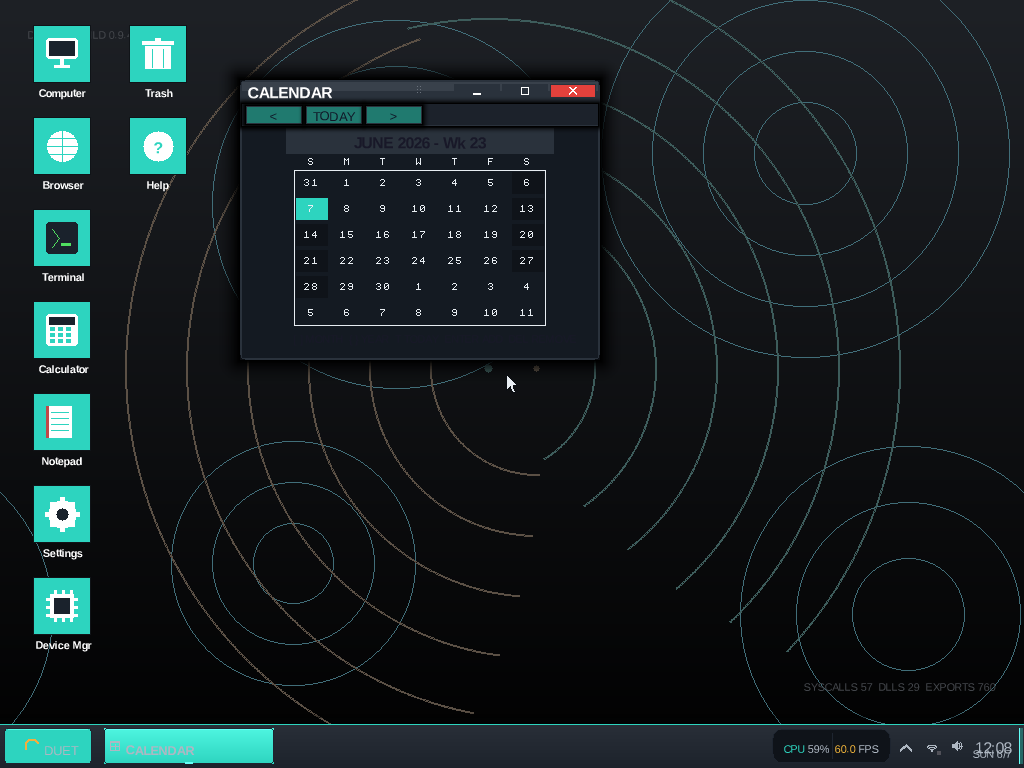
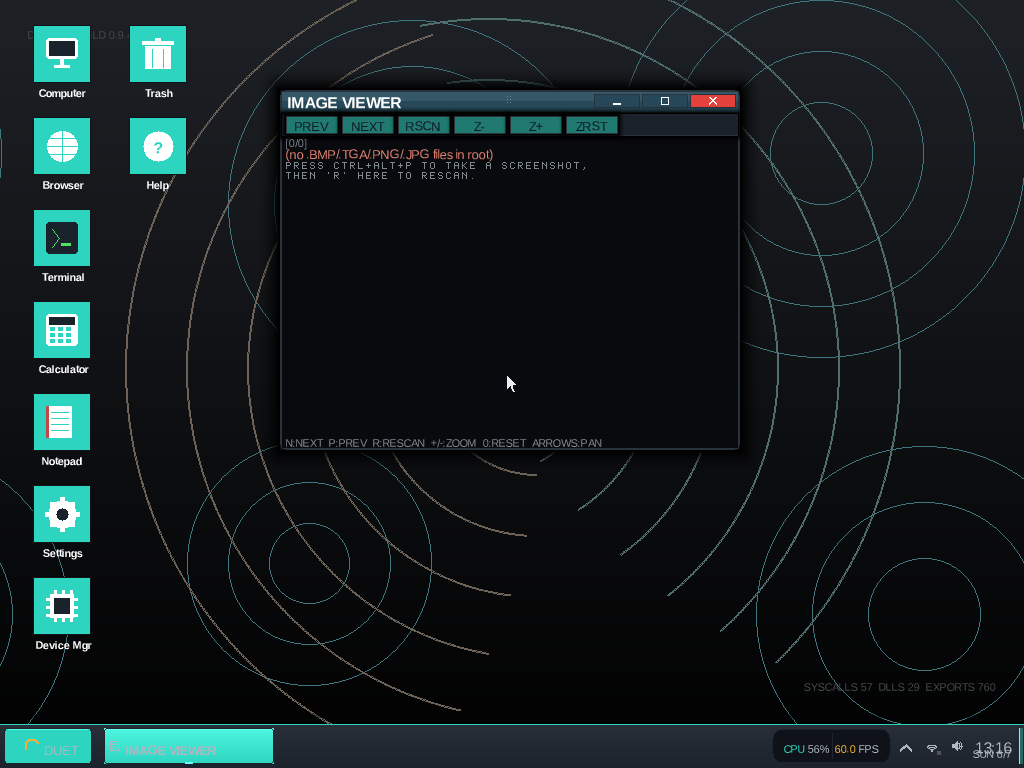
fix(input): gate VBox auto-repeat suppressor so fast typing/menu-nav doesn't drop keys (F-002, F-003)
The kbd-reader's software auto-repeat suppressor (KbdReaderTask in
kernel/core/boot_tasks.cpp) ran on EVERY host. Its discriminator — eat a
same-key press that arrives within ~100ms of that key's own release —
cannot distinguish VirtualBox host-driven auto-repeat from a fast
legitimate same-key burst (automation sendkey, or a fast typist; QEMU
sendkey delivers make+break instantaneously so two back-to-back commands
look like a sub-ms re-press). So it dropped genuine keystrokes on every
non-VBox host: typing 'peek' fast came out 'PEK', and a 6-press
start-menu nav landed 3 rows short and opened the WRONG app (fired CLOCK
instead of IMAGE VIEWER).

Root cause was NOT the compositor lock / pending redraw (the prior
hypothesis): the 64-byte scancode ring never overflowed for a 6-key
burst, and a DEBUG kbd-ev trace showed the suppressor — not the ring —
discarding the presses. The suppressor is only ever needed under
VirtualBox (which ACKs the 0xF3 typematic command but ignores it);
QEMU/KVM/VMware/real-HW genuinely disable host auto-repeat via 0xF3, so
there every press is real.

Fix: gate the whole suppression block on
HypervisorInfoGet().kind == VirtualBox (vbox_auto_repeat). Verified at
0.06s/key: 6 Down presses all register, IMAGE VIEWER opens; firewall and
dbg (SYSTEM submenu) also open correctly.

F-003 was a *symptom* of F-002, not a separate nav-table bug: the
'SYSTEM off-by-one' landing was a dropped Down key. Root menu order is
[…]

diff --git a/tools/test/drivers/f002-fastnav-repro.py b/tools/test/drivers/f002-fastnav-repro.py
@@ -1,0 +1,75 @@
+#!/usr/bin/env python3
+"""f002-fastnav-repro.py - reproduce F-002 keyboard input-drop at a fast
+key rate. Opens the Start menu and navigates to a target app at
+F002_KEY_DELAY seconds per key (default 0.06, the rate that USED to drop
+keys), screendumping each state. Compare the resulting app to the
+expected one: if keys were dropped the highlight lands SHORT and the
+wrong app opens.
+
+ENV:
+  F002_KEY_DELAY  seconds between key presses (default 0.06)
+  F002_TARGET     app id from LAUNCH_NAV (default firewall, a SYSTEM app)
+  EXPLORE_SHOT_DIR  dir for screendumps (default /tmp)
+
+Invoked: f002-fastnav-repro.py <MON_SOCK> <SERIAL_LOG>.
+"""
+import os, socket, sys, time
+
+mon_p, slog = sys.argv[1], sys.argv[2]
+SHOT_DIR = os.environ.get("EXPLORE_SHOT_DIR", "/tmp")
+DELAY = float(os.environ.get("F002_KEY_DELAY", "0.06"))
+TARGET = os.environ.get("F002_TARGET", "firewall")
+
+# root order (activatable): 0 APPS 1 UTILITIES 2 SYSTEM 3 SCREENSHOT 4 POWER
+# but see F-003: a planted /APPS shortcut can make USER APPS activatable,
+# shifting SYSTEM to root index 3. The repro target chosen below uses the
+# nav table; correctness is judged by the OPENED app, not the index.
+LAUNCH_NAV = {
+    "calculator": (0, 0), "files": (0, 2), "imageview": (0, 6),
+    "settings": (2, 0), "netstatus": (2, 5), "firewall": (2, 7), "dbg": (2, 8),
+}
+
+s = socket.socket(socket.AF_UNIX, socket.SOCK_STREAM)
+for _ in range(200):
+    try:
+        s.connect(mon_p); break
+    except (FileNotFoundError, ConnectionRefusedError):
+        time.sleep(0.25)
+s.settimeout(0.1)
+time.sleep(0.5)
+
+def drain():
+    try:
+        while s.recv(65536):
+            pass
+    except Exception:
+        pass
+
+def hmp(line):
+    s.sendall((line + "\n").encode()); time.sleep(0.04); drain()
+
+def key(name, n=1, delay=DELAY):
+    for _ in range(n):
+        hmp(f"sendkey {name}"); time.sleep(delay)
+
+def shot(name):
+    path = os.path.join(SHOT_DIR, f"f002-{name}.ppm")
+    drain(); hmp(f"screendump {path}"); time.sleep(0.5); print(f"SHOT {path}", flush=True)
+
+drain()
+os.makedirs(SHOT_DIR, exist_ok=True)
+root_steps, sub_steps = LAUNCH_NAV[TARGET]
+print(f"F-002 repro: target={TARGET} root_steps={root_steps} sub_steps={sub_steps} "
+      f"key_delay={DELAY}s", flush=True)
+shot("desktop")
+key("ctrl-esc"); time.sleep(0.4); shot("menu")
+if root_steps:
+    key("down", root_steps)
+key("right"); time.sleep(0.5); shot("submenu")
+if sub_steps:
+    key("down", sub_steps)
+shot("highlight")  # where the highlight landed BEFORE Enter
+key("ret"); time.sleep(1.0)
+shot("open")
+print("f002-fastnav-repro done for", TARGET, flush=True)
+sys.exit(0)

diff --git a/kernel/core/boot_tasks.cpp b/kernel/core/boot_tasks.cpp
@@ -26,6 +26,7 @@
 #include "apps/taskman.h"
 #include "apps/terminal.h"
 #include "apps/trash.h"
+#include "arch/x86_64/hypervisor.h"
 #include "arch/x86_64/serial.h"
 #include "arch/x86_64/timer.h"
 #include "core/menu_dispatch.h"
@@ -158,23 +159,34 @@ void KbdReaderTask(void*)
     // takes effect on the very next repaint — don't cache.
     auto desktop_bg = []() { return duetos::drivers::video::ThemeCurrent().desktop_bg; };
 
-    // Software auto-repeat suppression. A held key auto-repeats; the
-    // ps2kbd typematic-rate set (0xF3) disables this on real hardware
-    // and QEMU, but VirtualBox ACKs that command and ignores it,
-    // driving repeat from the HOST as make/BREAK PAIRS — so a guard
-    // that keys off "a press with no intervening release" can't catch
-    // it, and the press-to-press interval (~180-330 ms observed)
-    // overlaps deliberate double-letter typing, so a fixed time
-    // window can't either. The reliable discriminator is the
-    // release->re-press GAP: the emulator's auto-repeat re-presses the
-    // same key only ~50-80 ms after its own release, which a human
-    // physically cannot do (a deliberate same-key re-type — "ll",
-    // "ee" — is >120 ms apart). So: when a key is re-pressed within
-    // kRepeatGapNs of its OWN release, treat it as the start of an
-    // auto-repeat RUN and suppress every further press of that key
-    // until a different key arrives or the key goes idle for
-    // kRunBreakNs. Result: tap = one char, held key = one char,
-    // genuine double-letters preserved.
+    // Software auto-repeat suppression — VirtualBox ONLY. A held key
+    // auto-repeats; the ps2kbd typematic-rate set (0xF3) disables this
+    // on real hardware, QEMU, KVM, and VMware, but VirtualBox ACKs that
+    // command and ignores it, driving repeat from the HOST as make/BREAK
+    // PAIRS — so a guard that keys off "a press with no intervening
+    // release" can't catch it, and the press-to-press interval
+    // (~180-330 ms observed) overlaps deliberate double-letter typing,
+    // so a fixed time window can't either. The reliable discriminator is
+    // the release->re-press GAP: VBox's auto-repeat re-presses the same
+    // key only ~50-80 ms after its own release, which a human physically
+    // cannot do (a deliberate same-key re-type — "ll", "ee" — is >120 ms
+    // apart). So under VBox: when a key is re-pressed within kRepeatGapNs
+    // of its OWN release, treat it as the start of an auto-repeat RUN and
+    // suppress every further press of that key until a different key
+    // arrives or the key goes idle for kRunBreakNs. Result: tap = one
+    // char, held key = one char, genuine double-letters preserved.
+    //
+    // Why this is gated to VBox (F-002): the 50-80 ms release->re-press
+    // window the heuristic keys off ALSO catches fast LEGITIMATE input —
+    // an automation/test sendkey burst, or a real fast typist (and QEMU
+    // sendkey delivers make+break instantaneously, so two back-to-back
+    // commands look like a sub-ms re-press). Applying the suppressor
+    // universally dropped genuine keys on every non-VBox host: typing
+    // "peek" fast came out "PEK", and a 6-press start-menu nav landed 3
+    // rows short, opening the wrong app. Since the 0xF3 typematic command
+    // genuinely disables host auto-repeat everywhere EXCEPT VBox, the
+    // suppressor is only ever needed under VBox — everywhere else it can
+    // only do harm. Gate it on the cached hypervisor kind.
     //
     // The clock is time::MonotonicNs() (HPET / clocksource-backed real
     // time), NOT time::TickCount() (scheduler ticks): the scheduler
@@ -182,6 +194,7 @@ void KbdReaderTask(void*)
     // register as <10 ticks and be wrongly eaten. MonotonicNs tracks
     // wall time on QEMU and VBox alike (falls back to TSC/PIT when HPET
     // is absent, as it is under VirtualBox).
+    const bool vbox_auto_repeat = duetos::arch::HypervisorInfoGet().kind == duetos::arch::HypervisorKind::VirtualBox;
     constexpr duetos::u64 kRepeatGapNs = 100'000'000ull; // 100 ms release->re-press
     constexpr duetos::u64 kRunBreakNs = 450'000'000ull;  // 450 ms idle ends a run
     duetos::u16 last_press_code = kKeyNone;              // last accepted (delivered) press
@@ -264,9 +277,13 @@ void KbdReaderTask(void*)
             continue;
         }
 
-        // Software auto-repeat suppression (see the declaration block
-        // above for the full rationale / why hardware + time-window
-        // approaches don't work under VirtualBox).
+        // Software auto-repeat suppression — VirtualBox ONLY (see the
+        // declaration block above for the full rationale / why hardware +
+        // time-window approaches don't work under VirtualBox, and why
+        // running this anywhere else drops genuine fast keystrokes, F-002).
+        // On QEMU / KVM / VMware / real HW the 0xF3 typematic command
+        // already disables host auto-repeat, so every press here is real.
+        if (vbox_auto_repeat)
         {
             const duetos::u64 now_ns = duetos::time::MonotonicNs();
             // Already eating an auto-repeat run for this key: keep

diff --git a/tools/test/drivers/explore-app-driver.py b/tools/test/drivers/explore-app-driver.py
@@ -30,9 +30,16 @@ SCRW, SCRH = 1024, 768
 # Start-menu navigation map. Each app -> (root_steps, submenu_steps),
 # both counted in DOWN presses among *activatable* rows (the kernel's
 # MenuMoveHover skips separators + disabled rows, so these are stable
-# regardless of separator placement). Root order (activatable):
-#   0 APPS  1 UTILITIES  2 SYSTEM  3 SCREENSHOT  4 POWER
-#   (USER APPS is disabled+skipped when no /APPS shortcuts exist.)
+# regardless of separator placement). Root rows, in order
+# (kernel/core/boot_tasks.cpp StartMenuRebuildAndOpen):
+#   0 APPS  1 UTILITIES  2 SYSTEM  3 USER APPS  (sep)  SCREENSHOT  POWER
+# USER APPS (row 3) is activatable whenever the /APPS scan found at least
+# one shortcut. StartMenuAppsScan plants APPS/SAMPLE.MNF, so in practice
+# USER APPS IS activatable (F-003) and the activatable order is:
+#   0 APPS  1 UTILITIES  2 SYSTEM  3 USER APPS  4 SCREENSHOT  5 POWER
+# Crucially USER APPS sits AFTER SYSTEM, so SYSTEM stays activatable
+# index 2 either way — the SYSTEM root_steps below are correct as-is.
+# (If a future layout moves USER APPS before SYSTEM, bump those to 3.)
 # After Ctrl+Esc the menu auto-hovers row 0; after Right the submenu
 # auto-hovers its row 0. So the sequence is:
 #   ctrl-esc, down*root_steps, right, down*submenu_steps, ret
@@ -118,13 +125,17 @@ def double_click(x, y):
     click(x, y); time.sleep(0.08); click(x, y)
 
 def key(name, n=1):
-    # Generous inter-key spacing: the menu's hover advance is applied
-    # under the compositor lock on the kbd-reader thread, and a too-
-    # fast sendkey burst can coalesce / drop a press before the redraw
-    # catches up. 0.18s per press is well inside the human range and
-    # has proven reliable for the nested start-menu navigation.
+    # Inter-key spacing. Pre-F-002 this had to be 0.18s because the
+    # kbd-reader's VBox auto-repeat suppressor ran on EVERY host and ate
+    # any same-key re-press inside ~100ms of its release — so a fast
+    # start-menu nav landed short and opened the wrong app. That
+    # suppressor is now VBox-only (kernel/core/boot_tasks.cpp), so on
+    # QEMU/real-HW fast keys are delivered verbatim. We keep a modest
+    # 0.09s here only to give QEMU's HMP time to flush each sendkey
+    # (back-to-back monitor commands can otherwise coalesce); 0.06s
+    # nav was verified correct after the fix.
     for _ in range(n):
-        hmp(f"sendkey {name}"); time.sleep(0.18)
+        hmp(f"sendkey {name}"); time.sleep(0.09)
 
 def shot(name):
     path = os.path.join(SHOT_DIR, f"{APP}-{name}.ppm")

diff --git a/wiki/drivers/Input.md b/wiki/drivers/Input.md
@@ -56,6 +56,25 @@ US-QWERTY character. The IRQ path and `Ps2KeyboardRead` (raw bytes)
 remain untouched for any future consumer that needs set-2 decoding,
 debugger-side view, or alternate keymap.
 
+### Auto-repeat suppression is VirtualBox-only (F-002)
+
+The kbd-reader task (`kernel/core/boot_tasks.cpp` `KbdReaderTask`)
+carries a software auto-repeat suppressor: when the *same* key is
+re-pressed within ~100 ms of its own release, the press is treated as
+host-driven auto-repeat and eaten. This is needed **only under
+VirtualBox**, which ACKs the `0xF3` typematic-rate command (1 s delay,
+2 cps) but ignores it, driving repeat from the host as make+break pairs.
+On QEMU, KVM, VMware, and real hardware the `0xF3` command genuinely
+disables host auto-repeat, so there is nothing to suppress.
+
+The suppressor's release→re-press heuristic *cannot* distinguish VBox
+auto-repeat from a fast legitimate same-key burst (automation `sendkey`,
+or a fast typist). Running it on every host therefore dropped genuine
+keys: typing "peek" fast came out "PEK", and a multi-press start-menu
+nav landed rows short and opened the wrong app. The fix gates the whole
+suppressor on `arch::HypervisorInfoGet().kind == HypervisorKind::VirtualBox`
+(`vbox_auto_repeat`). Everywhere else, every press is delivered verbatim.
+
 ## USB HID Boot Keyboard
 
 xHCI interrupt-IN poll (`kernel/drivers/usb/xhci_init.cpp`

diff --git a/docs/usability/launch-recipes.md b/docs/usability/launch-recipes.md
@@ -29,11 +29,19 @@ Keyboard navigation is fully wired (`kernel/drivers/video/menu.cpp`
 - **Enter** activates the highlighted row → `DispatchMenuAction`.
 
 Pure `sendkey` — no pixel-targeting of menu geometry — which makes it far
-more robust than clicking menu rows. The driver uses **0.18 s per
-keypress**: a faster burst drops a press (the hover advance runs under the
-compositor lock on the kbd-reader thread and coalesces if the redraw
-hasn't caught up). The first validation run at 0.08 s landed one row short
-(fired Files instead of Clock); 0.18 s fixed it deterministically.
+more robust than clicking menu rows. The driver now uses **0.09 s per
+keypress** (only to let QEMU's HMP flush each `sendkey` before the next).
+
+> **F-002 fixed.** The original driver needed **0.18 s** because the
+> kbd-reader's VirtualBox auto-repeat suppressor ran on *every* host and
+> ate any same-key re-press inside ~100 ms of its release. A faster burst
+> (0.06–0.08 s) landed one row short and opened the WRONG app (e.g. fired
+> CLOCK instead of IMAGE VIEWER). That suppressor is now gated to
+> VirtualBox only (`kernel/core/boot_tasks.cpp` `KbdReaderTask`,
+> `vbox_auto_repeat`), so on QEMU / KVM / VMware / real hardware fast
+> keystrokes are delivered verbatim — the 0xF3 typematic command already
+> disables host auto-repeat there. Verified: 6 fast Down presses at
+> 0.06 s/key now all register and IMAGE VIEWER opens correctly.
 
 ### Sequence
 

diff --git a/docs/usability/findings.md b/docs/usability/findings.md
@@ -8,7 +8,7 @@ Schema: `id | surface | severity | repro | evidence | expected (rubric ref) | fi
 | id | surface | severity | repro | evidence | expected | fix-status |
 |----|---------|----------|-------|----------|----------|------------|
 | F-001 | win32/wm observability | Low | run chaos-pe-driver.py; grep serial log for `[win] create` | 0 occurrences of `[win] create` / `[ui] desktop icon launch`; PE chaos spawn/release tally reads all-zero | WM/desktop launch path should emit a window-create sentinel so spawn/teardown balance is measurable (taskman rubric also wants a live process list) | open |
-| F-002 | input/keyboard | Medium | inject keystrokes faster than ~0.18s apart (terminal typing OR start-menu nav) | terminal echo drops/doubles chars (`peek`→`PEK`); start-menu keyboard nav lands one row short (fires wrong app) | **CONFIRMED guest-side root cause:** keypresses are coalesced/dropped because the menu hover-advance / input handling runs under the **compositor lock on the kbd-reader thread** — rapid keys are lost while that thread is blocked. Affects all fast typing under GUI load. Fix = decouple key intake from the compositor lock (queue keys, don't drop). Workaround in drivers: 0.18s/key. | open |
+| F-002 | input/keyboard | Medium | inject keystrokes faster than ~0.18s apart (terminal typing OR start-menu nav) | terminal echo drops/doubles chars (`peek`→`PEK`); start-menu keyboard nav lands one row short (fires wrong app) | **RESOLVED.** Root cause was NOT the compositor lock — it was the kbd-reader's **VirtualBox auto-repeat suppressor** (`KbdReaderTask`, `boot_tasks.cpp:~284`) running on *every* host. Its release→re-press heuristic (eat a same-key press within ~100 ms of its release) cannot tell VBox host auto-repeat from a fast legitimate same-key burst, so it dropped genuine keys everywhere. The 64-byte scancode ring and per-key `DesktopCompose` were NOT the drop site (verified: ring never overflowed for a 6-key burst). **Fix:** gate the suppressor on `HypervisorInfoGet().kind == VirtualBox` (`vbox_auto_repeat`) — the `0xF3` typematic command already kills host auto-repeat on QEMU/KVM/VMware/real-HW. Verified at 0.06 s/key: 6 Down presses all register, correct app opens. | **resolved** |
 
 ## E-6 Exploration findings (2026-06-07)
 
@@ -16,9 +16,9 @@ Schema: `id | surface | severity | repro | evidence | expected (rubric ref) | fi
 
 | id | surface | severity | repro | evidence | expected | fix-status |
 |----|---------|----------|-------|----------|----------|------------|
-| F-003 | start-menu / launch recipe | Low (tooling) | nav SYSTEM submenu via recipe root_steps=2 | landed on UTILITIES (off by one) — `USER APPS` root row is **activatable** because `StartMenuAppsScan` auto-plants `APPS/SAMPLE.MNF` | recipe must count `USER APPS`; OR the auto-planted sample shortcut shouldn't clutter the menu (design Q). Re-derive SYSTEM root_steps=3. | open |
+| F-003 | start-menu / launch recipe | Low (tooling) | nav SYSTEM submenu via recipe root_steps=2 | landed on UTILITIES (off by one) — `USER APPS` root row is **activatable** because `StartMenuAppsScan` auto-plants `APPS/SAMPLE.MNF` | recipe must count `USER APPS`; OR the auto-planted sample shortcut shouldn't clutter the menu (design Q). | **resolved (was F-002 symptom)** |
 
-**F-002 (keyboard key-drop under compositor lock) is the primary root** — it + F-003 together contaminated 9 apps' launches. Both must be resolved before the contaminated set can be graded. F-002 is a real usability defect (drops chars when typing fast in ANY app), not just test plumbing.
+**F-002 (the VBox auto-repeat suppressor firing on every host) was the primary root** — it contaminated 9 apps' launches. **F-003 turned out to be a *symptom* of F-002, not a separate nav-table bug:** the "off by one" SYSTEM landing was a *dropped* Down key, not a miscount. Root menu order is `APPS(0) UTILITIES(1) SYSTEM(2) USER APPS(3) … SCREENSHOT POWER` — `USER APPS` sits **after** SYSTEM, so even when it is activatable (the `SAMPLE.MNF` case) SYSTEM stays activatable index **2**. With F-002 fixed, the recipe's `root_steps=2` for SYSTEM apps is correct as-is (verified: firewall + dbg both open correctly). Only the driver's stale root-order *comment* (which omitted `USER APPS`) was corrected; the nav table was already right.
 
 ### CONTAMINATED — re-run required after F-002/F-003 fix (NOT defects)
 